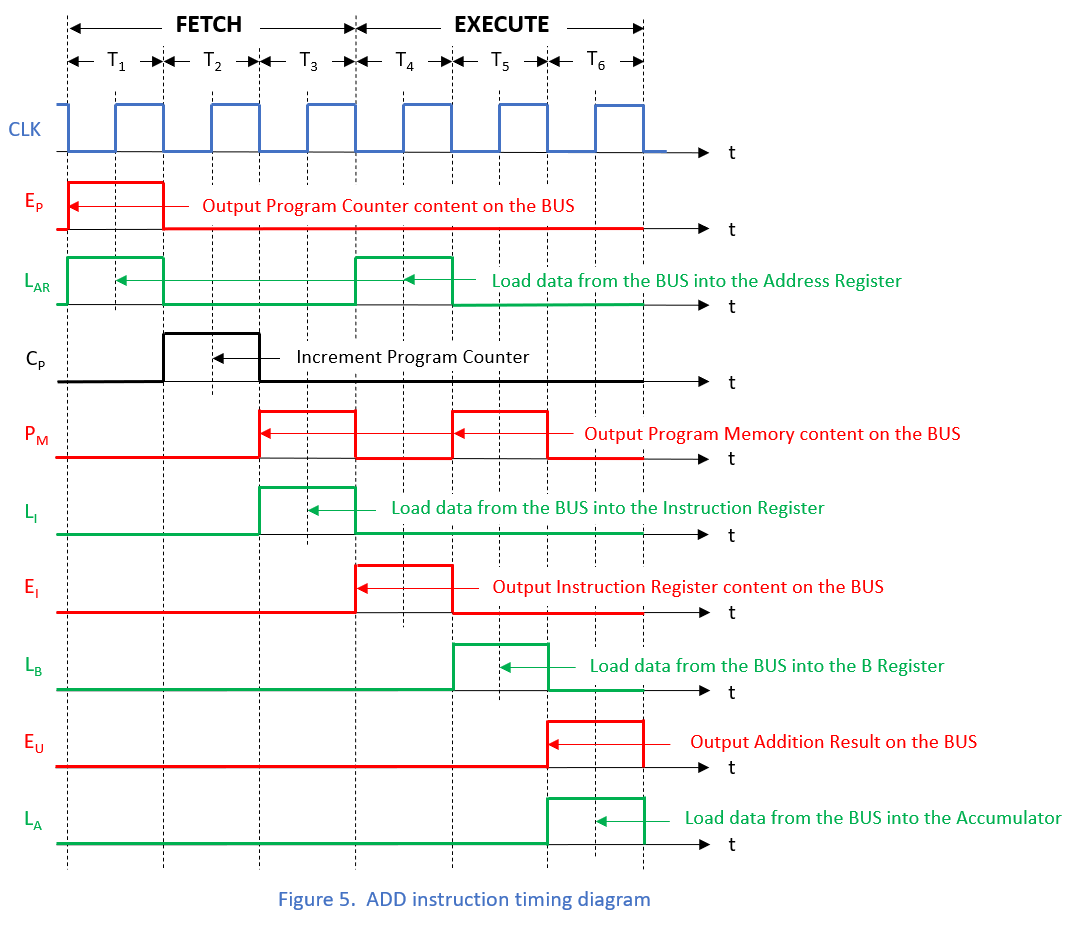
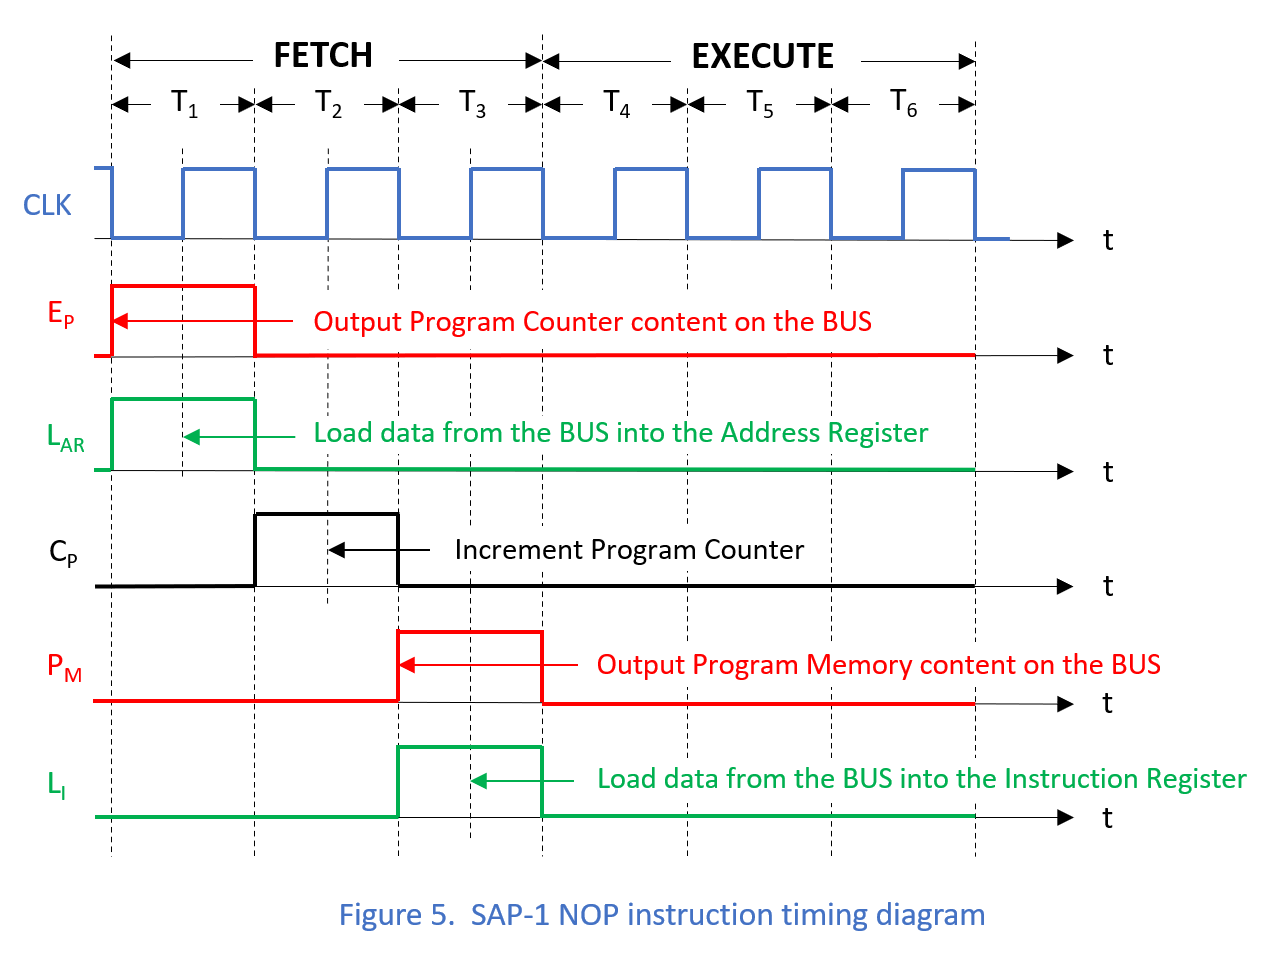
modified:   Pictures/Figure5.png modified:   Pictures/Figure6.png modified:   README.md modified:   Tables/Table1.png

diff --git a/README.md b/README.md
@@ -113,15 +113,32 @@ Binary form:  **** **** \
 Operation:  no operation \
 Example: NOP
 
-The NOP instruction has only the Fetch portion present in all instructions, but has nothing in the execution portion of the instruction. \
+The NOP instruction has only the Fetch portion present in all instructions, but has nothing in the execution portion of the instruction.
 
-The timing diagram for the NOP instruction is:
+No action is performed. This instruction can be used in programs to delay the execution of an action while waiting for a response from slow peripherals.
 
-![ Figure 3 ](/Pictures/Figure3.png)
+The binary form for the extended NOP instruction will be: 1111 0000 \
+This instruction has no parameter so it will be implemented as an Extended Instruction.
+
+The original timing diagram for the NOP instruction of the SAP-1 computer is:
+
+![ Figure 5 ](/Pictures/Figure5.png)
+
+All instructions of the SAP-1 computer are executed in 6 steps noted in the diagram and wiring diagram T1 - T6. The first 3 steps are the Fetch portion and the last 3 are the Execution portion of the instruction. The Fetch part of the statement is identical for all statements. The Execution part is specific to each individual instruction.
+
+The timing diagram for the NOP instruction of the ISAP-1 computer is:
+
+![ Figure 6 ](/Pictures/Figure6.png)
+
+All instructions of the ISAP-1 computer are executed in 8 steps or more (if necessary I will increase the number of steps) noted in the diagram and in the wiring diagram T1 – T8. The first 2 steps are the Fetch portion and the last 6 are the Execution portion of the instruction.
+
+The Fetch part of the statement is identical for all statements. The Fetch part of the instructions executed by the SAP-1 computer had 3 steps, but the T2 step was only used to increment the Program Counter. Since the Program Counter is not used in step T3, steps T2 and T3 can be combined. So the current instruction will be loaded from memory and the Program Counter will be incremented in the same step labeled T2.
+
+If this approach was used by the authors, an increase in the instruction execution speed was achieved by 1/6 = 0.167, so 16.7%.
 
 ALL UNIMPLEMENTED INSTRUCTIONS WILL BE TREATED BY THE SAP-1 CPU AS A NOP INSTRUCTION
 
-We can summarize the value of the time control signals shown in this diagram in the following table:
+We can summarize the value of the control signals over time shown in these diagrams in the following tables:
 
 ![ Table 1 ](/Tables/Table1.png)
 
